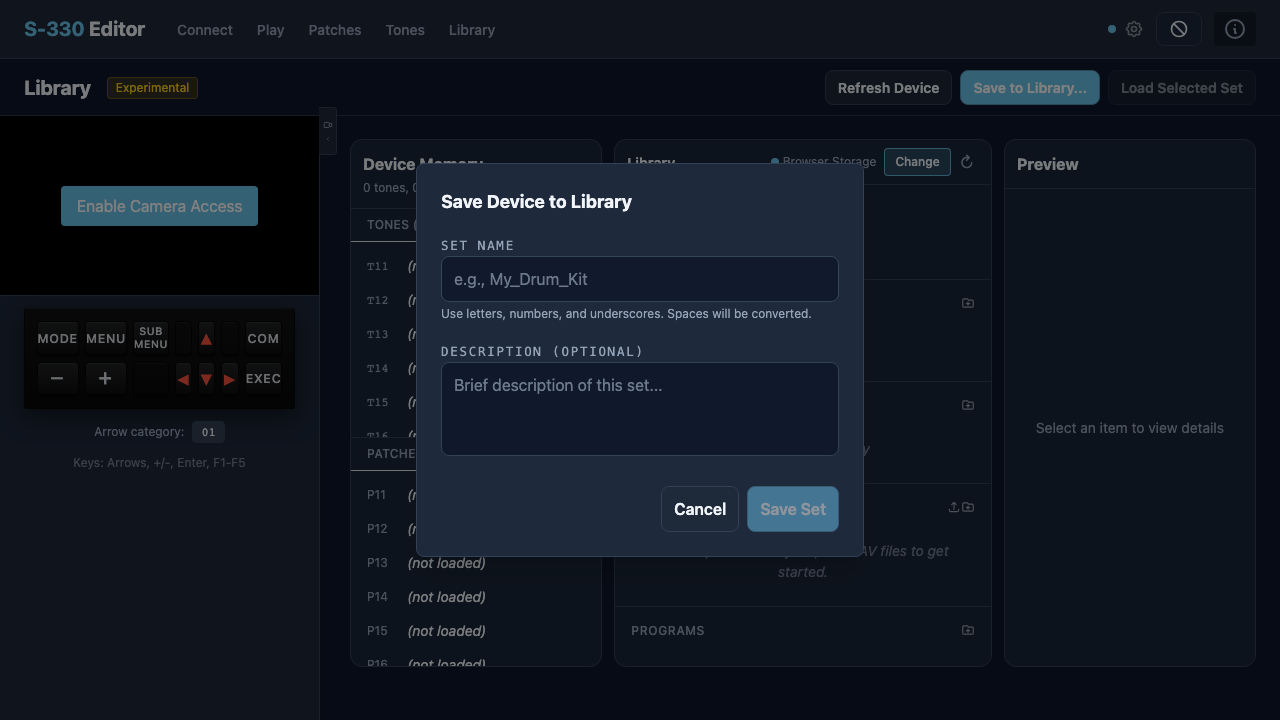
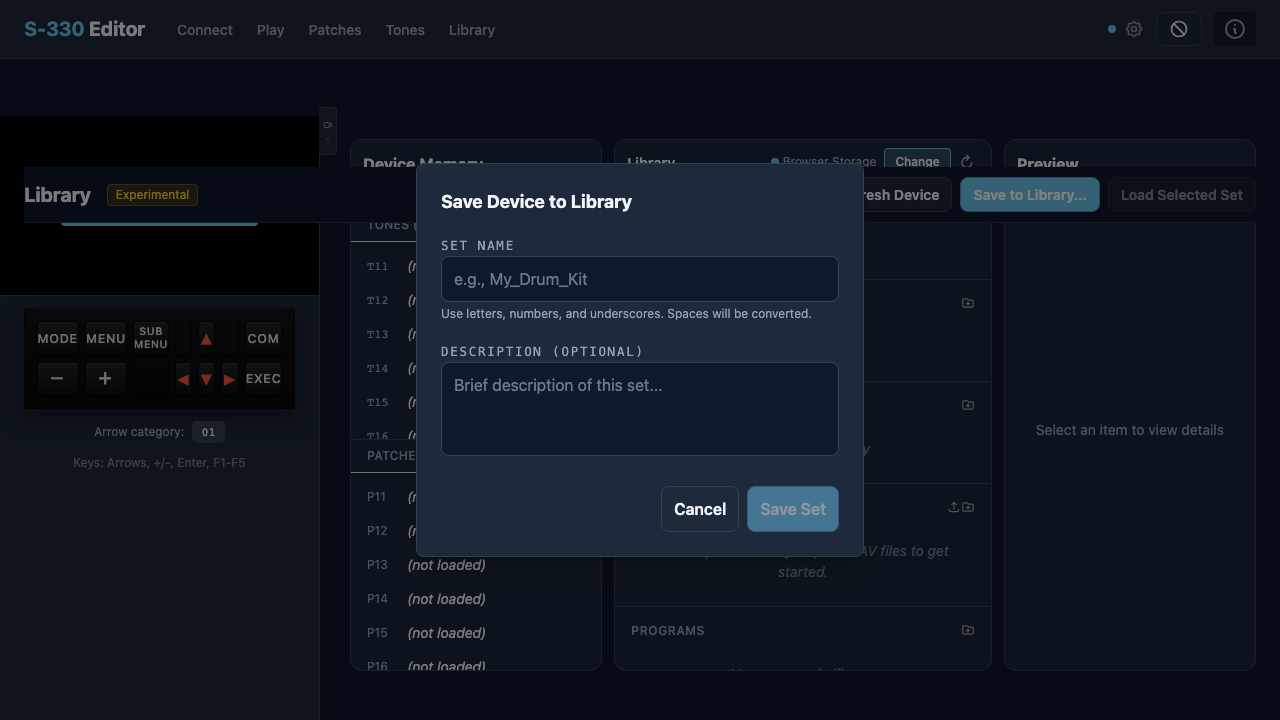
fix(editor-core): apply --fixed-viewport to Library + Play; dedupe scroll class
Commit 5dfff4e6 introduced .ac-page-shell--fixed-viewport and applied it
to PatchesPage + TonesPage, but two list-detail pages were left behind:
LibraryPage still used a legacy `h-[calc(100vh-12rem)]` Tailwind height
hack, and PlayPage had no structural height bound at all. PlayPage
passed the original 1280x800 regression spec only because its current
content happens to be short at that viewport. Both pages now use the
same modifier as PatchesPage / TonesPage so the four list-detail pages
share one contract.

Changes by file:

  - editor-core/src/design/layout-primitives.css: introduced a shared
    .ac-page-shell-body primitive for single-widget body rows inside a
    fixed-viewport shell (PluginLibraryBrowser, multi-part grid, etc.).
    Declares the flex contract once for the wrapper and (via
    `.ac-page-shell-body > *`) its direct child so the widget inherits
    the bounded height. PatchesPage / TonesPage continue to use their
    per-page __app-shell classes since those carry the additional
    list+detail grid concern; the new primitive covers pages that
    have no further structural concern to express.

  - editor-core/src/design/layout-primitives.css: deleted the now-
    duplicate .ac-scroll-list rule. The pre-existing .ac-list-scroll
    in editor-core/src/design/list-primitives.css supersedes it
    (same flex/min-height/overflow contract plus `scrollbar-width:
    thin` for slim Firefox scrollbars).
[…]

diff --git a/modules/roland-sxx0-editor/test/ui/page-viewport-containment.spec.ts b/modules/roland-sxx0-editor/test/ui/page-viewport-containment.spec.ts
@@ -17,8 +17,14 @@
  * hidden` so the inner `.ac-list-scroll` and `.<page>__detail-body`
  * scroll independently. See DESIGN-SYSTEM.md § "Page Shell Pattern".
  *
- * What this spec asserts: at viewport 1280x800, the document is no
- * taller than the viewport (plus a 4px slack for sub-pixel rounding).
+ * What this spec asserts: at both 1280x800 (mainstream laptop) and
+ * 1280x720 (narrower laptop / external 720p surfaces), the document is
+ * no taller than the viewport (plus a 4px slack for sub-pixel
+ * rounding). The two-viewport coverage catches pages that happen to
+ * fit at the taller height by coincidence but overflow at narrower
+ * heights — the original Phase 9 Task 4 polish commit only locked
+ * 1280x800 and a follow-up review flagged that LibraryPage / PlayPage
+ * were passing the gate via legacy mechanisms rather than the modifier.
  * If a future change re-introduces the regression — by removing the
  * modifier class, by dropping a `min-height: 0` rule, or by adding a
  * fixed-height descendant inside the bounded grid — this spec turns
@@ -48,7 +54,15 @@ interface Scenario {
   readonly suppressError?: (text: string) => boolean;
 }
 
-const VIEWPORT = { width: 1280, height: 800 } as const;
+interface ViewportSize {
+  readonly width: number;
+  readonly height: number;
+}
+
+const VIEWPORTS: ReadonlyArray<ViewportSize> = [
+  { width: 1280, height: 800 },
+  { width: 1280, height: 720 },
+] as const;
 
 // Sub-pixel rounding slack — descendants whose height is a fractional
 // rem can round up by 1px each, and a CSS layout that's exactly the
@@ -111,44 +125,46 @@ const SCENARIOS: ReadonlyArray<Scenario> = [
 
 test.describe('Page viewport containment — list-detail pages must not overflow the viewport', () => {
   for (const scenario of SCENARIOS) {
-    test(`${scenario.name} fits within the viewport at 1280x800`, async ({ page }) => {
-      const pageErrors: string[] = [];
-      page.on('pageerror', (err) => {
-        if (scenario.suppressError?.(err.message)) return;
-        pageErrors.push(err.message);
+    for (const viewport of VIEWPORTS) {
+      test(`${scenario.name} fits within the viewport at ${viewport.width}x${viewport.height}`, async ({ page }) => {
+        const pageErrors: string[] = [];
+        page.on('pageerror', (err) => {
+          if (scenario.suppressError?.(err.message)) return;
+          pageErrors.push(err.message);
+        });
+        page.on('console', (msg) => {
+          if (msg.type() !== 'error') return;
+          const text = msg.text();
+          if (scenario.suppressError?.(text)) return;
+          pageErrors.push(text);
+        });
+
+        await page.addInitScript(() => {
+          window.localStorage.clear();
+        });
+        await page.setViewportSize(viewport);
+        await page.goto(scenario.url);
+        await page.waitForLoadState('networkidle');
+        await scenario.readyAssertion(page);
+
+        const overflow = await page.evaluate(() => ({
+          docHeight: document.documentElement.scrollHeight,
+          viewportHeight: window.innerHeight,
+        }));
+
+        expect(
+          overflow.docHeight,
+          `${scenario.url} document scrollHeight (${overflow.docHeight}px) should fit within viewport (${overflow.viewportHeight}px). ` +
+          `If this fails the page is back to scrolling as one tall document — see DEVELOPMENT-NOTES 2026-05-13.`,
+        ).toBeLessThanOrEqual(overflow.viewportHeight + HEIGHT_SLACK_PX);
+
+        // No harness or layout-side console errors leaked from this
+        // scenario (suppressing only the known PatchesPage divergence).
+        expect(
+          pageErrors,
+          `${scenario.url} should not produce unexpected page errors`,
+        ).toEqual([]);
       });
-      page.on('console', (msg) => {
-        if (msg.type() !== 'error') return;
-        const text = msg.text();
-        if (scenario.suppressError?.(text)) return;
-        pageErrors.push(text);
-      });
-
-      await page.addInitScript(() => {
-        window.localStorage.clear();
-      });
-      await page.setViewportSize(VIEWPORT);
-      await page.goto(scenario.url);
-      await page.waitForLoadState('networkidle');
-      await scenario.readyAssertion(page);
-
-      const overflow = await page.evaluate(() => ({
-        docHeight: document.documentElement.scrollHeight,
-        viewportHeight: window.innerHeight,
-      }));
-
-      expect(
-        overflow.docHeight,
-        `${scenario.url} document scrollHeight (${overflow.docHeight}px) should fit within viewport (${overflow.viewportHeight}px). ` +
-        `If this fails the page is back to scrolling as one tall document — see DEVELOPMENT-NOTES 2026-05-13.`,
-      ).toBeLessThanOrEqual(overflow.viewportHeight + HEIGHT_SLACK_PX);
-
-      // No harness or layout-side console errors leaked from this
-      // scenario (suppressing only the known PatchesPage divergence).
-      expect(
-        pageErrors,
-        `${scenario.url} should not produce unexpected page errors`,
-      ).toEqual([]);
-    });
+    }
   }
 });

diff --git a/modules/roland-sxx0-editor/src/pages/PlayPage.tsx b/modules/roland-sxx0-editor/src/pages/PlayPage.tsx
@@ -258,7 +258,7 @@ export function PlayPage() {
   }
 
   return (
-    <div className="ac-page ac-page-shell">
+    <div className="ac-page ac-page-shell ac-page-shell--fixed-viewport">
       <div className="ac-page-sticky-header">
         <div className="ac-page-header">
           <h2 className="text-xl font-bold text-s330-text">Play</h2>
@@ -304,13 +304,17 @@ export function PlayPage() {
         </div>
       </div>
 
-      {/* Parts Grid */}
-      <div
-        className="bg-s330-panel border border-s330-accent rounded-md overflow-hidden"
-        data-capability="C-PLAY-01"
-      >
-        {/* Parts Grid */}
-        <div className="p-4 font-mono text-sm">
+      {/* Parts Grid — fixed-viewport contract: the card claims the
+          remaining shell height via `.ac-page-shell-body > *`, the
+          inner padded div scrolls internally when narrower viewports
+          can't fit all 8 strips. */}
+      <div className="ac-page-shell-body">
+        <div
+          className="bg-s330-panel border border-s330-accent rounded-md overflow-hidden flex flex-col"
+          data-capability="C-PLAY-01"
+        >
+          {/* Parts Grid */}
+          <div className="p-4 font-mono text-sm flex-1 min-h-0 overflow-y-auto">
           {/* Header row */}
           <div className="grid grid-cols-12 gap-2 mb-2 text-s330-muted text-xs">
             <div className="col-span-1"></div>
@@ -429,6 +433,7 @@ export function PlayPage() {
               </div>
             </div>
           ))}
+          </div>
         </div>
       </div>
 

diff --git a/modules/akai-s3k-editor/src/components/programs/ProgramList.tsx b/modules/akai-s3k-editor/src/components/programs/ProgramList.tsx
@@ -108,7 +108,7 @@ export function ProgramList({
             </button>
           )}
         </div>
-        <div className="ac-scroll-list flex items-center justify-center py-8">
+        <div className="ac-list-scroll flex items-center justify-center py-8">
           <span className="text-sm text-gray-500">Loading programs...</span>
         </div>
       </div>
@@ -131,7 +131,7 @@ export function ProgramList({
             </button>
           )}
         </div>
-        <div className="ac-scroll-list flex items-center justify-center py-8">
+        <div className="ac-list-scroll flex items-center justify-center py-8">
           <span className="text-sm text-gray-500">No programs loaded</span>
         </div>
       </div>
@@ -155,7 +155,7 @@ export function ProgramList({
           </button>
         )}
       </div>
-      <div className="ac-scroll-list space-y-1">
+      <div className="ac-list-scroll space-y-1">
         {programNames.map((name, index) => {
           const isSelected = index === selectedIndex;
           const isEmpty = name.trim() === '';

diff --git a/modules/akai-s3k-editor/src/components/samples/SampleList.tsx b/modules/akai-s3k-editor/src/components/samples/SampleList.tsx
@@ -114,7 +114,7 @@ export function SampleList({
             </button>
           )}
         </div>
-        <div className="ac-scroll-list flex items-center justify-center py-8">
+        <div className="ac-list-scroll flex items-center justify-center py-8">
           <span className="text-sm text-gray-500">Loading samples...</span>
         </div>
       </div>
@@ -137,7 +137,7 @@ export function SampleList({
             </button>
           )}
         </div>
-        <div className="ac-scroll-list flex items-center justify-center py-8">
+        <div className="ac-list-scroll flex items-center justify-center py-8">
           <span className="text-sm text-gray-500">No samples loaded</span>
         </div>
       </div>
@@ -161,7 +161,7 @@ export function SampleList({
           </button>
         )}
       </div>
-      <div className="ac-scroll-list space-y-1">
+      <div className="ac-list-scroll space-y-1">
         {sampleNames.map((name, index) => {
           const isSelected = index === selectedIndex;
           const isEmpty = name.trim() === '';

diff --git a/modules/editor-core/src/design/layout-primitives.css b/modules/editor-core/src/design/layout-primitives.css
@@ -84,6 +84,31 @@
   overflow: hidden;
 }
 
+/*
+ * Body row of a fixed-viewport shell whose body is a SINGLE full-height
+ * widget (PluginLibraryBrowser, multi-part grid, etc.) — i.e., pages
+ * that don't need their own list+detail grid track layout.
+ *
+ * Pages with a list+detail grid declare an equivalent contract inside
+ * their per-page `__app-shell` class (see `patches.css` /
+ * `tones.css` — `flex: 1; min-height: 0; overflow: hidden`); this
+ * primitive is the same shape lifted to the design system for pages
+ * that have nothing additional to express.
+ */
+.ac-page-shell-body {
+  flex: 1 1 auto;
+  min-height: 0;
+  display: flex;
+  flex-direction: column;
+  overflow: hidden;
+}
+
+.ac-page-shell-body > * {
+  flex: 1 1 auto;
+  min-height: 0;
+  height: 100%;
+}
+
 .ac-page-header {
   display: flex;
   align-items: center;
@@ -151,12 +176,6 @@
   overflow: hidden;
   display: flex;
   flex-direction: column;
-}
-
-.ac-scroll-list {
-  flex: 1 1 auto;
-  min-height: 0;
-  overflow-y: auto;
 }
 
 .ac-container-md {

diff --git a/modules/editor-core/src/design/list-primitives.css b/modules/editor-core/src/design/list-primitives.css
@@ -24,9 +24,14 @@
    * Flex column so `.ac-list-scroll` (the inner pane) can claim
    * `flex: 1; min-height: 0` and scroll internally when the list
    * container is height-bounded by its parent grid track. Outside a
-   * height-bounded parent (content-flow pages), the list still wears
-   * its natural intrinsic height because no descendant requests flex
-   * growth on its own.
+   * height-bounded parent (content-flow pages), `.ac-list-scroll` DOES
+   * still request `flex: 1 1 auto` — but because this `.ac-list`
+   * carries no intrinsic height of its own, the flex container has
+   * nothing for the child to grow into. The child collapses to its
+   * content's intrinsic height and `overflow-y: auto` never engages.
+   * The behavior is therefore visually indistinguishable from a plain
+   * block in content-flow contexts, while still cooperating with a
+   * height-bounded parent when one is present.
    */
   display: flex;
   flex-direction: column;

diff --git a/modules/roland-sxx0-editor/src/pages/LibraryPage.tsx b/modules/roland-sxx0-editor/src/pages/LibraryPage.tsx
@@ -321,7 +321,7 @@ export function LibraryPage() {
   }
 
   return (
-    <div className="ac-page ac-page-shell">
+    <div className="ac-page ac-page-shell ac-page-shell--fixed-viewport">
       <div className="ac-page-sticky-header">
         <div className="ac-page-header">
           <div className="flex items-center gap-4">
@@ -338,7 +338,7 @@ export function LibraryPage() {
 
       {error && (<div className="ac-alert ac-alert-error"><p className="ac-text-error text-sm">{error}</p></div>)}
 
-      <div className="h-[calc(100vh-12rem)]" data-capability="C-LIB-01">
+      <div className="ac-page-shell-body" data-capability="C-LIB-01">
         <PluginLibraryBrowser
           plugin={plugin}
           libraryHandle={libraryHandle}

diff --git a/modules/akai-s3k-editor/src/components/keygroups/KeygroupList.tsx b/modules/akai-s3k-editor/src/components/keygroups/KeygroupList.tsx
@@ -70,7 +70,7 @@ export function KeygroupList({
             </button>
           )}
         </div>
-        <div className="ac-scroll-list flex items-center justify-center py-8">
+        <div className="ac-list-scroll flex items-center justify-center py-8">
           <span className="text-sm text-gray-500">No keygroups available. Select a program first.</span>
         </div>
       </div>
@@ -105,7 +105,7 @@ export function KeygroupList({
           )}
         </div>
       </div>
-      <div className="ac-scroll-list space-y-1">
+      <div className="ac-list-scroll space-y-1">
         {Array.from({ length: keygroupCount }, (_, i) => {
           const kg = keygroups[i];
           const isSelected = selectedIndex === i;

diff --git a/modules/roland-sxx0-editor/test/ui/patches.spec.ts b/modules/roland-sxx0-editor/test/ui/patches.spec.ts
@@ -106,7 +106,7 @@ test.describe('S-330 Patches -- simulated harness', () => {
     // modules/roland-sxx0-editor/src/configs/s330.ts). Bank-0 load
     // populates slots 0-7; slots 8-15 stay as not-loaded placeholders.
     // Assert presence in the DOM, not viewport visibility -- the list
-    // scrolls inside `ac-scroll-list` so off-screen slots are still real.
+    // scrolls inside `ac-list-scroll` so off-screen slots are still real.
     await expect(page.getByTestId('patch-item-0')).toBeVisible({ timeout: 5_000 });
     await expect(page.locator('[data-testid^="patch-item-"]')).toHaveCount(16);
 

diff --git a/modules/roland-sxx0-editor/src/components/patches/PatchList.tsx b/modules/roland-sxx0-editor/src/components/patches/PatchList.tsx
@@ -71,7 +71,7 @@ export function PatchList({
       data-capability="C-PATCH-01"
       aria-label="Patch list"
     >
-      <div className="ac-list-scroll ac-scroll-list">
+      <div className="ac-list-scroll">
         {Array.from({ length: totalBanks }, (_, bankIndex) => {
           const bankStart = bankIndex * patchesPerBank;
           const bankEnd = Math.min(bankStart + patchesPerBank, patches.length);

diff --git a/modules/roland-sxx0-editor/src/components/tones/ToneList.tsx b/modules/roland-sxx0-editor/src/components/tones/ToneList.tsx
@@ -66,7 +66,7 @@ export function ToneList({
       data-capability="C-TONE-01"
       aria-label="Tone list"
     >
-      <div className="ac-list-scroll ac-scroll-list">
+      <div className="ac-list-scroll">
         {Array.from({ length: totalBanks }, (_, bankIndex) => {
           const bankStart = bankIndex * tonesPerBank;
           const bankEnd = Math.min(bankStart + tonesPerBank, tones.length);

diff --git a/modules/editor-core/src/components/library/LibraryPanel.tsx b/modules/editor-core/src/components/library/LibraryPanel.tsx
@@ -118,7 +118,7 @@ export function LibraryPanel({
       )}
 
       {/* Content area */}
-      <div className="ac-library-panel-content ac-scroll-list">
+      <div className="ac-library-panel-content ac-list-scroll">
         {loading && !children && (
           <div className="ac-library-panel-status">Loading...</div>
         )}
